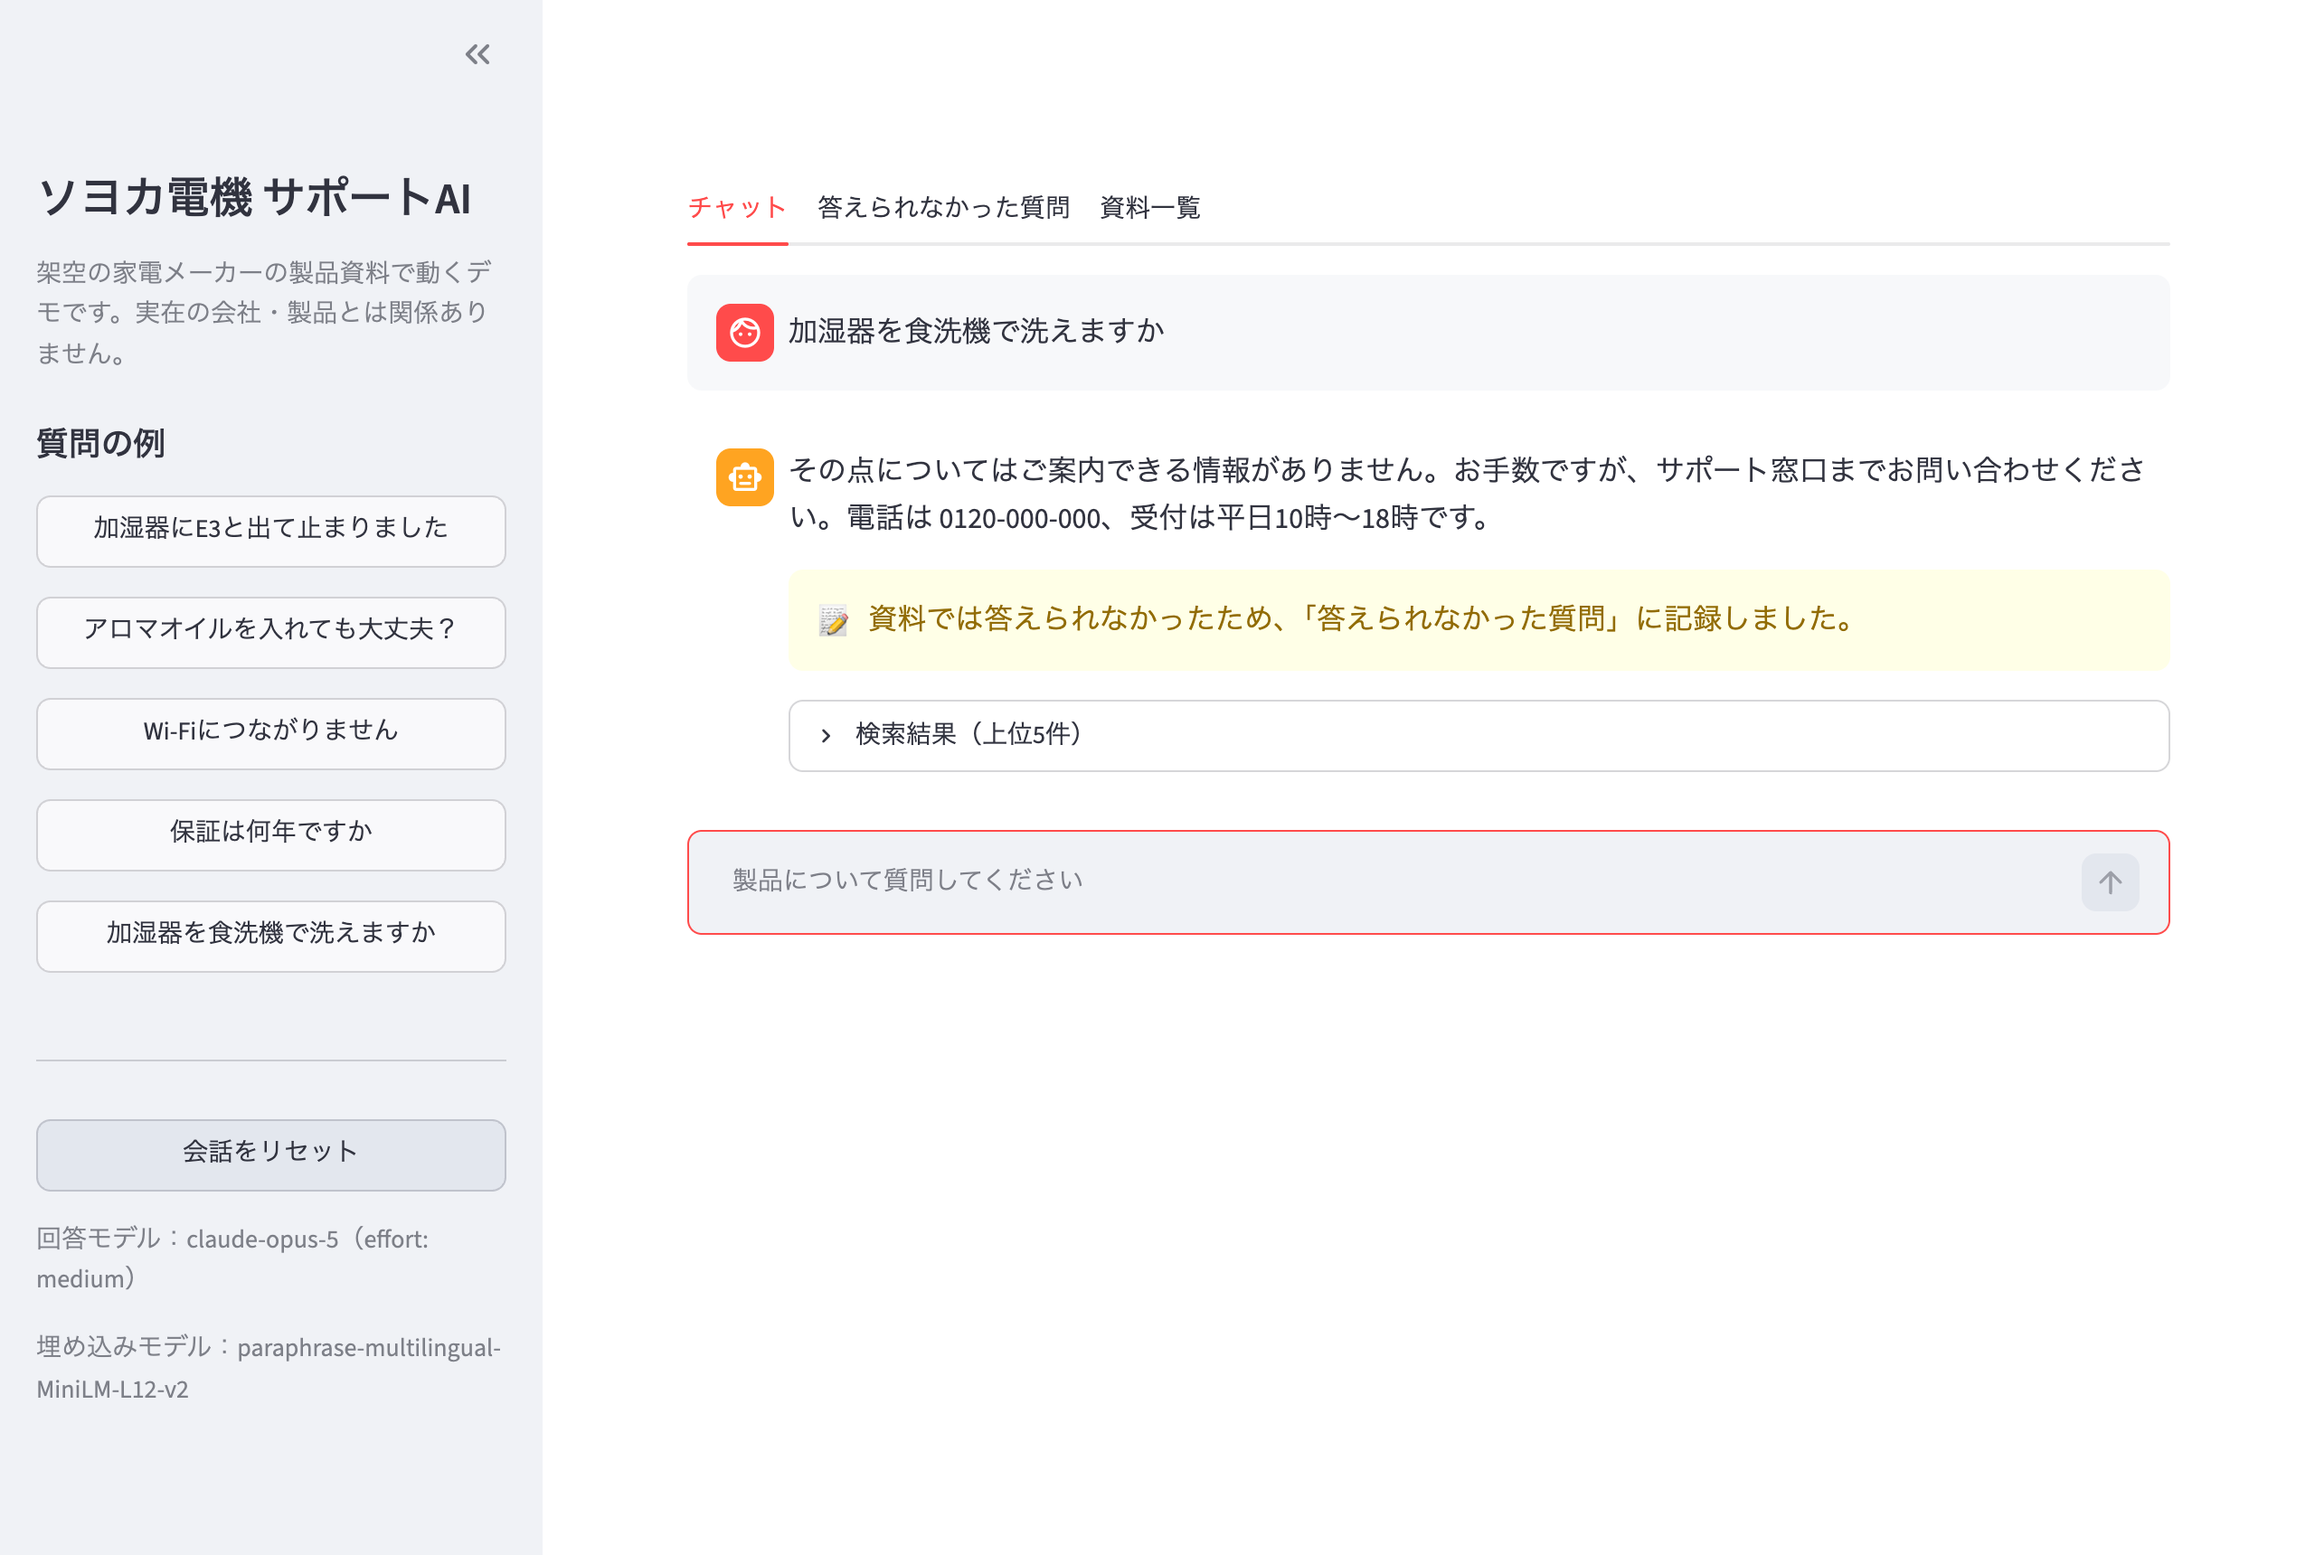
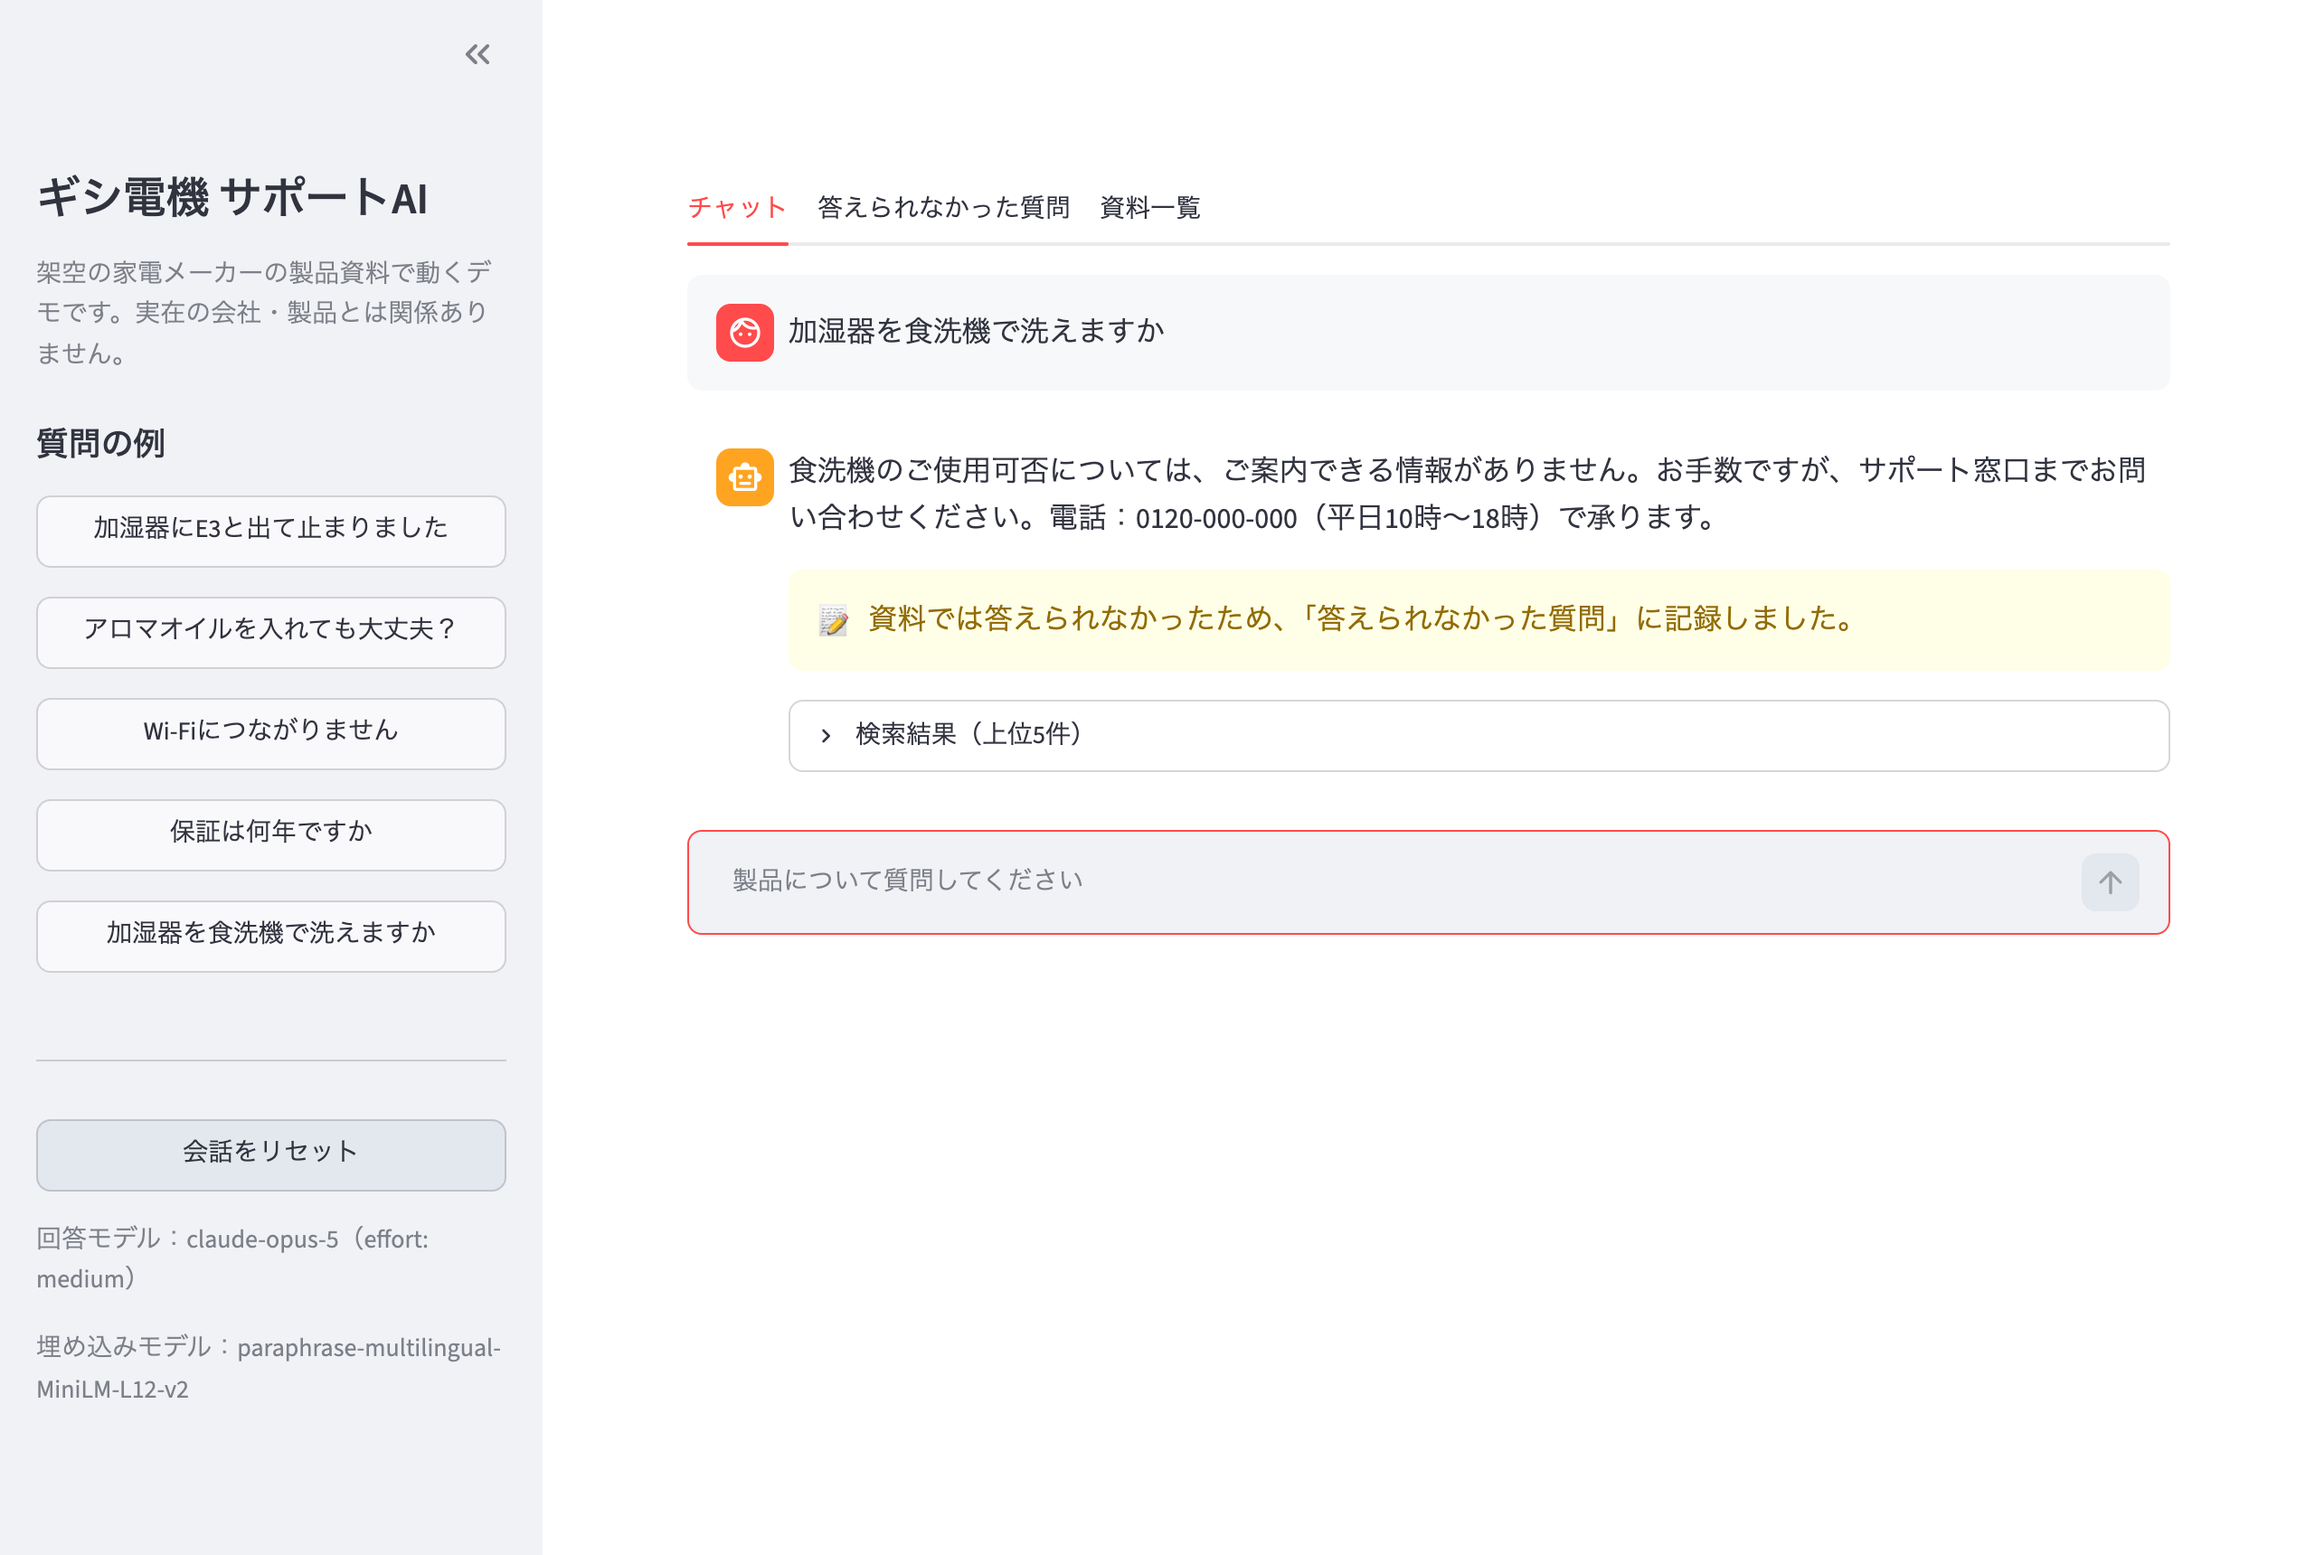
架空の会社名を「ギシ電機」に変更
資料・画面・プロンプト・README・画面の画像の会社名をそろえて変更する。

Changed region(s): [[0.3438, 0.2773, 0.9375, 0.339], [0.0, 0.0924, 0.2188, 0.1541]]

diff --git a/app.py b/app.py
@@ -181,13 +181,13 @@ def docs_tab(searcher: HybridSearcher) -> None:
 
 
 def main() -> None:
-    st.set_page_config(page_title="ソヨカ電機 サポートAI（デモ）", page_icon="💬", layout="wide")
+    st.set_page_config(page_title="ギシ電機 サポートAI（デモ）", page_icon="💬", layout="wide")
     st.session_state.setdefault("turns", [])
     searcher = get_searcher(fingerprint(load_chunks(DOCS_DIR)))
     logbook = get_logbook()
 
     with st.sidebar:
-        st.title("ソヨカ電機 サポートAI")
+        st.title("ギシ電機 サポートAI")
         st.caption("架空の家電メーカーの製品資料で動くデモです。実在の会社・製品とは関係ありません。")
         st.subheader("質問の例")
         for example in EXAMPLES:

diff --git a/supportrag/answer.py b/supportrag/answer.py
@@ -14,7 +14,7 @@ import anthropic
 from .search import Hit
 
 SYSTEM_PROMPT = """\
-あなたは、家電メーカー「ソヨカ電機」のカスタマーサポート担当です。
+あなたは、家電メーカー「ギシ電機」のカスタマーサポート担当です。
 お客様からの質問に、検索結果として渡される自社の製品資料だけを根拠に、日本語で答えてください。
 
 - 資料に書かれていることだけを答える。資料にない仕様・料金・日数・対応可否を推測で補わない。

diff --git a/docs/app-wifi.md b/docs/app-wifi.md
@@ -1,10 +1,10 @@
-# ソヨカ ホームアプリとWi-Fi接続
+# ギシ ホームアプリとWi-Fi接続
 
-ソヨカ ホームは、ミストプラス HM-300 とクリアエア AP-500 をスマートフォンから操作できる無料アプリです。iOS 16以降、Android 11以降に対応しています。
+ギシ ホームは、ミストプラス HM-300 とクリアエア AP-500 をスマートフォンから操作できる無料アプリです。iOS 16以降、Android 11以降に対応しています。
 
 ## 本体をWi-Fiにつなぐ手順
 
-1. ソヨカ ホームアプリを開き、「機器を追加」をタップします。
+1. ギシ ホームアプリを開き、「機器を追加」をタップします。
 2. 本体の「Wi-Fi」ボタンを5秒長押しします。Wi-Fiランプが点滅したら、接続待ちの状態です。
 3. アプリの画面に従って、ご家庭のWi-Fiのネットワーク名とパスワードを入力します。
 4. Wi-Fiランプが点灯に変わったら、接続は完了です。

diff --git a/docs/contact.md b/docs/contact.md
@@ -1,6 +1,6 @@
 # お問い合わせ窓口
 
-ソヨカ電機は架空の家電メーカーです。この資料はデモ用に作成したもので、実在の会社・製品とは関係ありません。
+ギシ電機は架空の家電メーカーです。この資料はデモ用に作成したもので、実在の会社・製品とは関係ありません。
 
 ## カスタマーサポートの受付時間
 
@@ -15,7 +15,7 @@
 
 ## チャットサポート
 
-公式サイトとソヨカ ホームアプリのチャットでは、AIがよくある質問にお答えします。
+公式サイトとギシ ホームアプリのチャットでは、AIがよくある質問にお答えします。
 AIで解決しない場合は、平日10時〜17時の間、担当者によるチャットに切り替えられます。
 
 ## 修理のご相談

diff --git a/README.md b/README.md
@@ -3,7 +3,7 @@
 製品のマニュアルやFAQをもとに、お客様からの問い合わせへ**根拠付きで**答えるAIチャットです。
 資料に書かれていないことは推測で答えず、有人窓口へ案内します。答えられなかった質問は記録され、FAQを増やす候補として管理画面に並びます。
 
-> 題材は架空の家電メーカー「ソヨカ電機」です。資料はすべてデモ用に作成したもので、実在の会社・製品とは関係ありません。
+> 題材は架空の家電メーカー「ギシ電機」です。資料はすべてデモ用に作成したもので、実在の会社・製品とは関係ありません。
 
 ![出典付きの回答](images/chat-answer.png)
 

diff --git a/docs/ap500-faq.md b/docs/ap500-faq.md
@@ -13,7 +13,7 @@
 ## 加湿機能はありますか
 
 クリアエア AP-500 に加湿機能はありません。加湿も必要な場合は、加湿器「ミストプラス HM-300」との併用をおすすめします。
-ソヨカ ホームアプリを使うと、2台をまとめて操作できます。
+ギシ ホームアプリを使うと、2台をまとめて操作できます。
 
 ## ペットの毛は吸い込めますか
 

diff --git a/docs/hm300-manual.md b/docs/hm300-manual.md
@@ -27,7 +27,7 @@
 ## タイマー
 
 切タイマーは2時間・4時間・8時間から選べます。
-入タイマーは、ソヨカ ホームアプリから時刻を指定して設定します。本体のボタンでは設定できません。
+入タイマーは、ギシ ホームアプリから時刻を指定して設定します。本体のボタンでは設定できません。
 
 ## チャイルドロック
 
